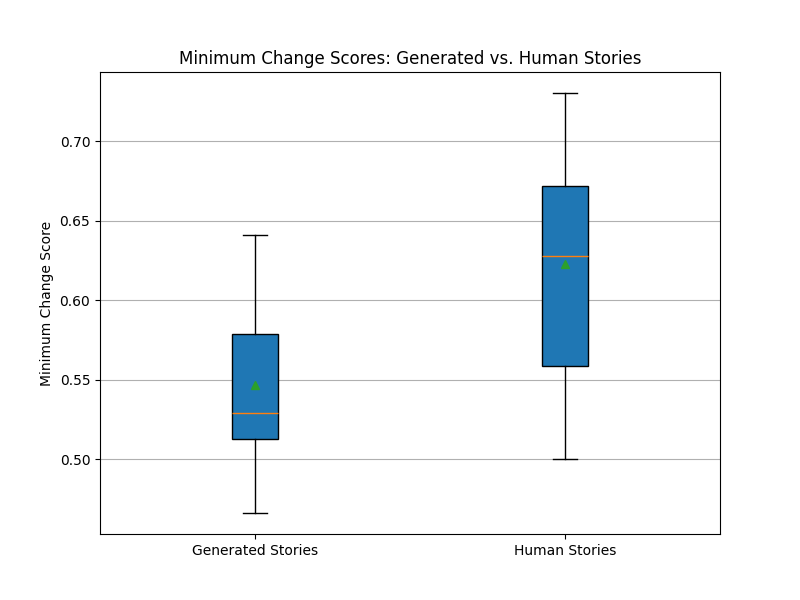
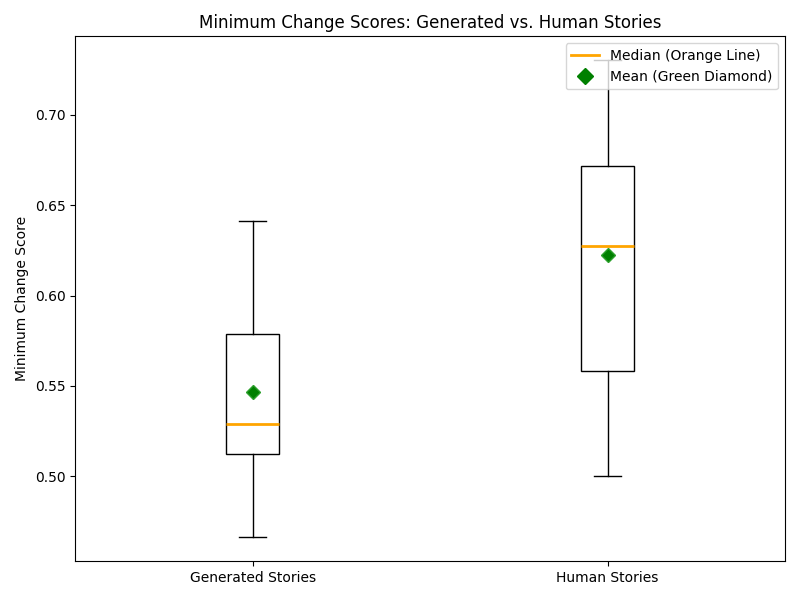
uniform data vis part 2

diff --git a/feature-scripts/focused-character-event/focused_character_event_vis.py b/feature-scripts/focused-character-event/focused_character_event_vis.py
@@ -1,6 +1,13 @@
 import matplotlib.pyplot as plt
 import os
 
+# File paths
+generated_event_file = "/Users/sgiannuzzi/Desktop/thesis/feature-scripts/focused-character-event/results/generated_event_results.txt"
+human_event_file = "/Users/sgiannuzzi/Desktop/thesis/feature-scripts/focused-character-event/results/human_event_results.txt"
+generated_character_file = "/Users/sgiannuzzi/Desktop/thesis/feature-scripts/focused-character-event/results/generated_character_results.txt"
+human_character_file = "/Users/sgiannuzzi/Desktop/thesis/feature-scripts/focused-character-event/results/human_character_results.txt"
+output_folder = "/Users/sgiannuzzi/Desktop/thesis/feature-scripts/focused-character-event/results"
+
 def parse_results(file_path, score_type):
     """Parse results from a plain text file and extract scores for the specified type."""
     scores = []
@@ -18,45 +25,64 @@ def parse_results(file_path, score_type):
         print(f"Error reading file {file_path}: {e}")
     return scores
 
-def create_boxplot(generated_scores, human_scores, output_path, title, ylabel):
-    """Create a box-and-whisker plot comparing scores."""
-    data = [generated_scores, human_scores]
-    labels = ['Generated Stories', 'Human Stories']
-
+def create_boxplot(data, labels, title, ylabel, output_filename):
+    """Create a box-and-whisker plot."""
     plt.figure(figsize=(8, 6))
-    plt.boxplot(data, labels=labels, patch_artist=True, showmeans=True)
+    boxprops = dict(facecolor="white", color="black")
+    meanprops = dict(marker='D', markerfacecolor='green', markersize=7, linestyle='none', color='green')
+    medianprops = dict(color='orange', linewidth=2)
+
+    plt.boxplot(data, labels=labels, patch_artist=True, showmeans=True, 
+                meanprops=meanprops, medianprops=medianprops, boxprops=boxprops)
+
     plt.title(title)
     plt.ylabel(ylabel)
-    plt.grid(axis='y')
-    plt.savefig(output_path)
-    plt.show()
+
+    # Add a legend
+    legend_elements = [
+        plt.Line2D([0], [0], color='orange', lw=2, label='Median (Orange Line)'),
+        plt.Line2D([0], [0], marker='D', color='green', label='Mean (Green Diamond)', linestyle='None', markersize=8)
+    ]
+    plt.legend(handles=legend_elements, loc='upper right')
+
+    plt.tight_layout()
+    plt.savefig(os.path.join(output_folder, output_filename))
+    plt.close()
 
 def main():
-    # File paths
-    generated_event_file = "/Users/sgiannuzzi/Desktop/thesis/feature-scripts/focused-character-event/results/generated_event_results.txt"
-    human_event_file = "/Users/sgiannuzzi/Desktop/thesis/feature-scripts/focused-character-event/results/human_event_results.txt"
-    output_path = "/Users/sgiannuzzi/Desktop/thesis/feature-scripts/focused-character-event/results/focused_event_boxplot.png"
+    # Parse scores for events
+    generated_event_scores = parse_results(generated_event_file, "Focused Event")
+    human_event_scores = parse_results(human_event_file, "Focused Event")
 
-    # Parse scores
-    generated_scores = parse_results(generated_event_file, "Focused Event")
-    human_scores = parse_results(human_event_file, "Focused Event")
+    # Parse scores for characters
+    generated_character_scores = parse_results(generated_character_file, "Focused Character")
+    human_character_scores = parse_results(human_character_file, "Focused Character")
 
-    if not generated_scores and not human_scores:
-        print("No scores available to plot.")
-        return
+    if not generated_event_scores and not human_event_scores:
+        print("No event scores available to plot.")
+    else:
+        # Create Focused Event plot
+        create_boxplot(
+            [generated_event_scores, human_event_scores], 
+            ["Generated Stories", "Human Stories"], 
+            "Focused Event Scores: Generated vs. Human Stories", 
+            "Focused Event Score", 
+            "focused_event_boxplot.png"
+        )
 
-    # Debugging: Print parsed scores
-    print("Generated Scores:", generated_scores)
-    print("Human Scores:", human_scores)
+    if not generated_character_scores and not human_character_scores:
+        print("No character scores available to plot.")
+    else:
+        # Create Focused Character plot
+        create_boxplot(
+            [generated_character_scores, human_character_scores], 
+            ["Generated Stories", "Human Stories"], 
+            "Focused Character Scores: Generated vs. Human Stories", 
+            "Focused Character Score", 
+            "focused_character_boxplot.png"
+        )
 
-    # Create and save the plot
-    create_boxplot(
-        generated_scores,
-        human_scores,
-        output_path,
-        "Focused Event Scores: Generated vs. Human Stories",
-        "Focused Event Score"
-    )
+    print("Plots generated and saved!")
 
 if __name__ == "__main__":
     main()

diff --git a/feature-scripts/intensity/intensity_vis.py b/feature-scripts/intensity/intensity_vis.py
@@ -1,11 +1,10 @@
-"""
-SETUP: conda activate py39
-Code co-authored with ChatGPT
-"""
-
 import matplotlib.pyplot as plt
 import os
 
+# Paths to results files
+generated_results_path = "/Users/sgiannuzzi/Desktop/thesis/feature-scripts/intensity/results/generated_intensity_results.txt"
+human_results_path = "/Users/sgiannuzzi/Desktop/thesis/feature-scripts/intensity/results/human_intensity_results.txt"
+output_folder = "/Users/sgiannuzzi/Desktop/thesis/feature-scripts/intensity/results"
 
 def parse_results(file_path):
     """Parse results from a plain text file and extract total intensity scores."""
@@ -24,41 +23,53 @@ def parse_results(file_path):
         print(f"Error reading file {file_path}: {e}")
     return scores
 
-
-def create_boxplot(generated_scores, human_scores, output_path):
-    """Create a box-and-whisker plot comparing total intensity scores."""
-    data = [generated_scores, human_scores]
-    labels = ['Generated Stories', 'Human Stories']
-
+def create_boxplot(data, labels, title, ylabel, output_filename):
+    """Create a box-and-whisker plot."""
     plt.figure(figsize=(8, 6))
-    plt.boxplot(data, labels=labels, patch_artist=True, showmeans=True)
-    plt.title("Total Intensity Scores: Generated vs. Human Stories")
-    plt.ylabel("Total Intensity Score")
-    plt.grid(axis='y')
-    plt.savefig(output_path)
-    plt.show()
+    boxprops = dict(facecolor="white", color="black")
+    meanprops = dict(marker='D', markerfacecolor='green', markersize=7, linestyle='none', color='green')
+    medianprops = dict(color='orange', linewidth=2)
 
+    plt.boxplot(data, labels=labels, patch_artist=True, showmeans=True, 
+                meanprops=meanprops, medianprops=medianprops, boxprops=boxprops)
+
+    plt.title(title)
+    plt.ylabel(ylabel)
+
+    # Add a legend
+    legend_elements = [
+        plt.Line2D([0], [0], color='orange', lw=2, label='Median (Orange Line)'),
+        plt.Line2D([0], [0], marker='D', color='green', label='Mean (Green Diamond)', linestyle='None', markersize=8)
+    ]
+    plt.legend(handles=legend_elements, loc='upper right')
+
+    plt.tight_layout()
+    plt.savefig(os.path.join(output_folder, output_filename))
+    plt.close()
 
 def main():
-    generated_file = "/Users/sgiannuzzi/Desktop/thesis/feature-scripts/intensity/results/generated_intensity_results.txt"
-    human_file = "/Users/sgiannuzzi/Desktop/thesis/feature-scripts/intensity/results/human_intensity_results.txt"
-    output_path = "/Users/sgiannuzzi/Desktop/thesis/feature-scripts/intensity/results/total_intensity_boxplot.png"
-
-    # Parse scores
-    generated_scores = parse_results(generated_file)
-    human_scores = parse_results(human_file)
+    # Parse results
+    generated_scores = parse_results(generated_results_path)
+    human_scores = parse_results(human_results_path)
 
     if not generated_scores and not human_scores:
         print("No scores available to plot.")
         return
 
-    # Debugging: Print parsed scores
-    print("Generated Scores:", generated_scores)
-    print("Human Scores:", human_scores)
+    # Data for plots
+    data = [generated_scores, human_scores]
+    labels = ["Generated Stories", "Human Stories"]
 
-    # Create and save the plot
-    create_boxplot(generated_scores, human_scores, output_path)
+    # Create Total Intensity plot
+    create_boxplot(
+        data, 
+        labels, 
+        "Total Intensity Scores: Generated vs. Human Stories", 
+        "Total Intensity Score", 
+        "total_intensity_boxplot.png"
+    )
 
+    print("Plot generated and saved!")
 
 if __name__ == "__main__":
     main()

diff --git a/feature-scripts/distinctive-endings/distinctive_endings_vis.py b/feature-scripts/distinctive-endings/distinctive_endings_vis.py
@@ -1,6 +1,11 @@
 import matplotlib.pyplot as plt
 import os
 
+# Paths to results files
+generated_results_path = "/Users/sgiannuzzi/Desktop/thesis/feature-scripts/distinctive-endings/results/generated_endings_results.txt"
+human_results_path = "/Users/sgiannuzzi/Desktop/thesis/feature-scripts/distinctive-endings/results/human_endings_results.txt"
+output_folder = "/Users/sgiannuzzi/Desktop/thesis/feature-scripts/distinctive-endings/results"
+
 def parse_results(file_path):
     """Parse results from a plain text file and extract minimum change scores."""
     scores = []
@@ -18,38 +23,53 @@ def parse_results(file_path):
         print(f"Error reading file {file_path}: {e}")
     return scores
 
-def create_boxplot(generated_scores, human_scores, output_path):
-    """Create a box-and-whisker plot comparing minimum change scores."""
-    data = [generated_scores, human_scores]
-    labels = ['Generated Stories', 'Human Stories']
-
+def create_boxplot(data, labels, title, ylabel, output_filename):
+    """Create a box-and-whisker plot."""
     plt.figure(figsize=(8, 6))
-    plt.boxplot(data, labels=labels, patch_artist=True, showmeans=True)
-    plt.title("Minimum Change Scores: Generated vs. Human Stories")
-    plt.ylabel("Minimum Change Score")
-    plt.grid(axis='y')
-    plt.savefig(output_path)
-    plt.show()
+    boxprops = dict(facecolor="white", color="black")
+    meanprops = dict(marker='D', markerfacecolor='green', markersize=7, linestyle='none', color='green')
+    medianprops = dict(color='orange', linewidth=2)
+
+    plt.boxplot(data, labels=labels, patch_artist=True, showmeans=True, 
+                meanprops=meanprops, medianprops=medianprops, boxprops=boxprops)
+
+    plt.title(title)
+    plt.ylabel(ylabel)
+
+    # Add a legend
+    legend_elements = [
+        plt.Line2D([0], [0], color='orange', lw=2, label='Median (Orange Line)'),
+        plt.Line2D([0], [0], marker='D', color='green', label='Mean (Green Diamond)', linestyle='None', markersize=8)
+    ]
+    plt.legend(handles=legend_elements, loc='upper right')
+
+    plt.tight_layout()
+    plt.savefig(os.path.join(output_folder, output_filename))
+    plt.close()
 
 def main():
-    generated_file = "/Users/sgiannuzzi/Desktop/thesis/feature-scripts/distinctive-endings/results/generated_endings_results.txt"
-    human_file = "/Users/sgiannuzzi/Desktop/thesis/feature-scripts/distinctive-endings/results/human_endings_results.txt"
-    output_path = "/Users/sgiannuzzi/Desktop/thesis/feature-scripts/distinctive-endings/results/min_change_boxplot.png"
-
-    # Parse scores
-    generated_scores = parse_results(generated_file)
-    human_scores = parse_results(human_file)
+    # Parse results
+    generated_scores = parse_results(generated_results_path)
+    human_scores = parse_results(human_results_path)
 
     if not generated_scores and not human_scores:
         print("No scores available to plot.")
         return
 
-    # Debugging: Print parsed scores
-    print("Generated Scores:", generated_scores)
-    print("Human Scores:", human_scores)
+    # Data for plots
+    data = [generated_scores, human_scores]
+    labels = ["Generated Stories", "Human Stories"]
 
-    # Create and save the plot
-    create_boxplot(generated_scores, human_scores, output_path)
+    # Create Minimum Change plot
+    create_boxplot(
+        data, 
+        labels, 
+        "Minimum Change Scores: Generated vs. Human Stories", 
+        "Minimum Change Score", 
+        "min_change_boxplot.png"
+    )
+
+    print("Plot generated and saved!")
 
 if __name__ == "__main__":
     main()

diff --git a/feature-scripts/mystery-strangeness/mystery_strangeness_vis.py b/feature-scripts/mystery-strangeness/mystery_strangeness_vis.py
@@ -1,6 +1,11 @@
 import matplotlib.pyplot as plt
 import os
 
+# Paths to results files
+generated_results_path = "/Users/sgiannuzzi/Desktop/thesis/feature-scripts/mystery-strangeness/results/generated_analysis_results.txt"
+human_results_path = "/Users/sgiannuzzi/Desktop/thesis/feature-scripts/mystery-strangeness/results/human_analysis_results.txt"
+output_folder = "/Users/sgiannuzzi/Desktop/thesis/feature-scripts/mystery-strangeness/results"
+
 def parse_results(file_path):
     """Parse results from a plain text file and extract psychological_intensity scores."""
     scores = []
@@ -15,34 +20,53 @@ def parse_results(file_path):
         print(f"Error reading file {file_path}: {e}")
     return scores
 
-def create_boxplot(generated_scores, human_scores, output_path):
-    """Create a box-and-whisker plot comparing psychological_intensity scores."""
-    data = [generated_scores, human_scores]
-    labels = ['Generated Stories', 'Human Stories']
-    
+def create_boxplot(data, labels, title, ylabel, output_filename):
+    """Create a box-and-whisker plot."""
     plt.figure(figsize=(8, 6))
-    plt.boxplot(data, labels=labels, patch_artist=True, showmeans=True)
-    plt.title("Psychological Intensity Scores: Generated vs. Human Stories")
-    plt.ylabel("Psychological Intensity")
-    plt.grid(axis='y')
-    plt.savefig(output_path)
-    plt.show()
+    boxprops = dict(facecolor="white", color="black")
+    meanprops = dict(marker='D', markerfacecolor='green', markersize=7, linestyle='none', color='green')
+    medianprops = dict(color='orange', linewidth=2)
+
+    plt.boxplot(data, labels=labels, patch_artist=True, showmeans=True, 
+                meanprops=meanprops, medianprops=medianprops, boxprops=boxprops)
+
+    plt.title(title)
+    plt.ylabel(ylabel)
+
+    # Add a legend
+    legend_elements = [
+        plt.Line2D([0], [0], color='orange', lw=2, label='Median (Orange Line)'),
+        plt.Line2D([0], [0], marker='D', color='green', label='Mean (Green Diamond)', linestyle='None', markersize=8)
+    ]
+    plt.legend(handles=legend_elements, loc='upper right')
+
+    plt.tight_layout()
+    plt.savefig(os.path.join(output_folder, output_filename))
+    plt.close()
 
 def main():
-    generated_file = "/Users/sgiannuzzi/Desktop/thesis/feature-scripts/mystery-strangeness/results/generated_analysis_results.txt"
-    human_file = "/Users/sgiannuzzi/Desktop/thesis/feature-scripts/mystery-strangeness/results/human_analysis_results.txt"
-    output_path = "/Users/sgiannuzzi/Desktop/thesis/feature-scripts/mystery-strangeness/results/psychological_intensity_boxplot.png"
-    
-    # Parse scores
-    generated_scores = parse_results(generated_file)
-    human_scores = parse_results(human_file)
-    
+    # Parse results
+    generated_scores = parse_results(generated_results_path)
+    human_scores = parse_results(human_results_path)
+
     if not generated_scores and not human_scores:
         print("No scores available to plot.")
         return
-    
-    # Create and save the plot
-    create_boxplot(generated_scores, human_scores, output_path)
+
+    # Data for plots
+    data = [generated_scores, human_scores]
+    labels = ["Generated Stories", "Human Stories"]
+
+    # Create Psychological Intensity plot
+    create_boxplot(
+        data, 
+        labels, 
+        "Psychological Intensity: Generated vs. Human Stories", 
+        "Psychological Intensity", 
+        "psychological_intensity_boxplot.png"
+    )
+
+    print("Plot generated and saved!")
 
 if __name__ == "__main__":
     main()
